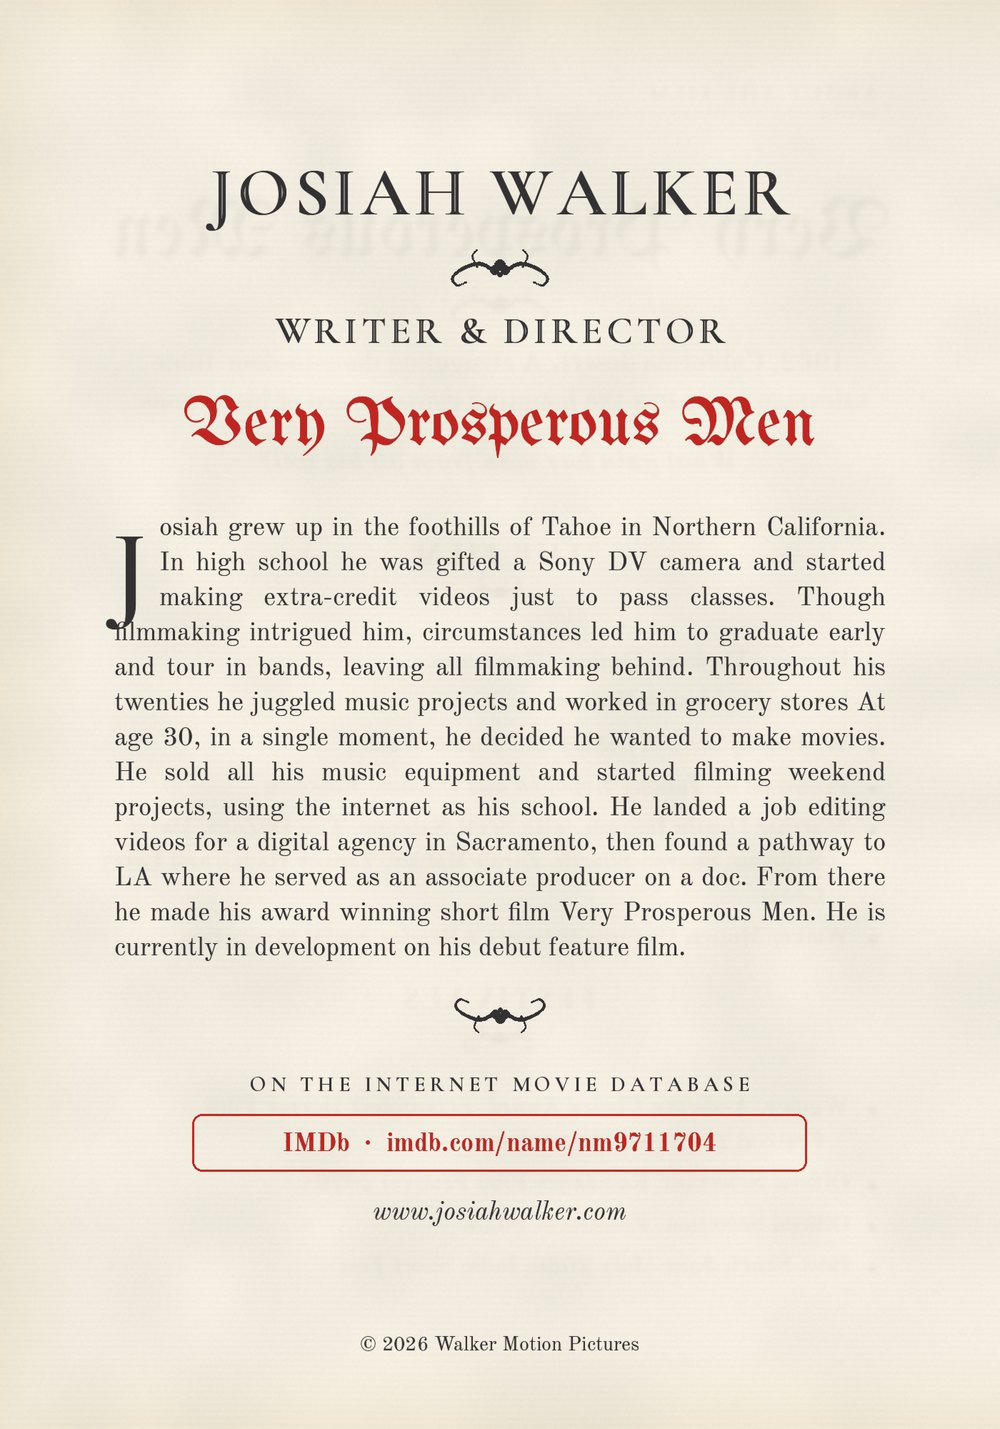
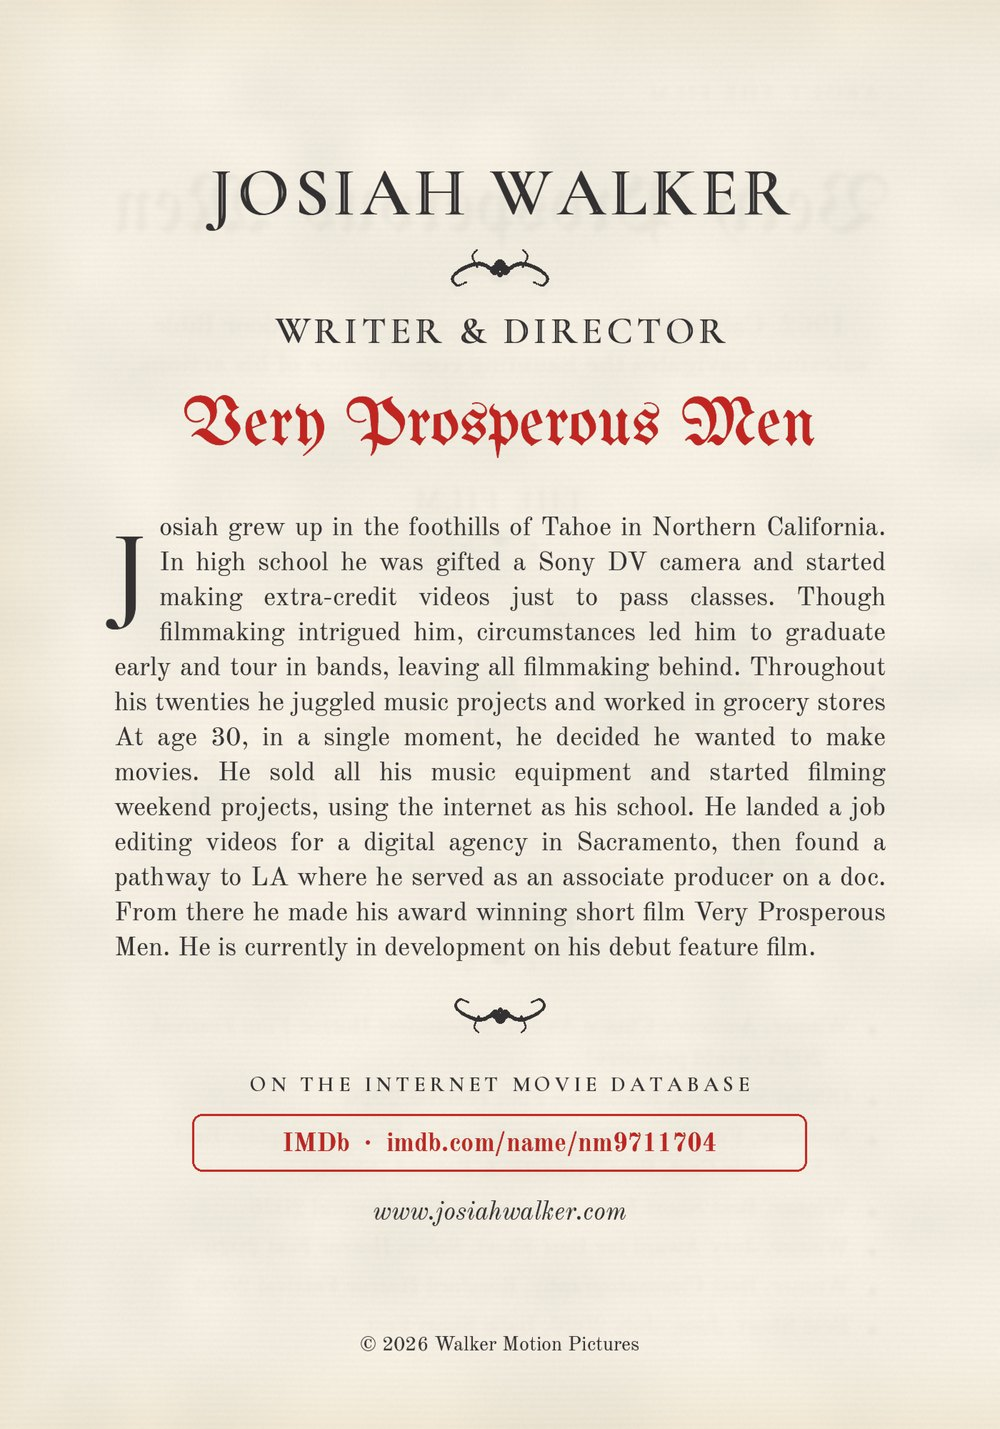
v44: bio page drop cap J clears the text
Claude-Session: https://claude.ai/code/session_01GM3UHFZvE1BbMYZkhuUwc1

Changed region(s): [[0.093, 0.4311, 0.899, 0.6774]]

diff --git a/index.html b/index.html
@@ -1308,7 +1308,7 @@ window.__fl = {   // QA: step the clip that is on screen
 };
 // thread D: the crucifix is a live glTF (crucifix.js, loaded on demand) over the case still; the c_crucifix still is only a fallback
 let cruxLoad = null, cruxOK = false;
-function loadCrux() { return cruxLoad || (cruxLoad = new Promise((res, rej) => { const sc = document.createElement('script'); sc.src = 'crucifix.js?v=42'; sc.onload = res; sc.onerror = rej; document.head.appendChild(sc); })); }
+function loadCrux() { return cruxLoad || (cruxLoad = new Promise((res, rej) => { const sc = document.createElement('script'); sc.src = 'crucifix.js?v=43'; sc.onload = res; sc.onerror = rej; document.head.appendChild(sc); })); }
 function mountCrux() {
   const m = cuMeta.c_case; if (!m) return;
   loadCrux().then(() => window.crux.mount($('#crux3d'), { cam: m.cam, aim: m.aim, lens: m.lens || 30, res: [1920, 1200], framing, onState: (st) => {
@@ -1342,7 +1342,7 @@ const jget = (u) => fetch(u).then(r => r.ok ? r.json() : null).catch(() => null)
 function loadBible() { return bibleLoad || (bibleLoad = Promise.all([loadScript('pagesnd.js'), loadScript('bible.js').then(() => loadScript('album.js')), jget('frames/bible.json'), jget('frames/bible_pages.json'), jget('frames/album.json'), jget('frames/album_pages.json')]).then(([, , bj, pj, aj, apj]) => {
   pj = pj || {}; const urls = {}; for (const k in pj) if (/_url$/.test(k) && pj[k]) urls[k.replace(/_url$/, '')] = pj[k];   // imdb_box, site_line, about_press, about_vimeo, ... (the poster has none: onLink)
   bibleMeta = { rest: bj && bj.rest, boxes: pj, urls }; albumMeta = aj; albumPages = apj; })); }
-const ASSET_V = '42';   // bumped with every change to a .js module, so browsers and GitHub's cache never serve an old copy
+const ASSET_V = '43';   // bumped with every change to a .js module, so browsers and GitHub's cache never serve an old copy
 function loadScript(src) { const one = (u) => new Promise((res, rej) => { const sc = document.createElement('script'); sc.src = u; sc.onload = res; sc.onerror = rej; document.head.appendChild(sc); }); return one(src + '?v=' + ASSET_V).catch(() => one(src)); }
 const bookHints = { lifting: 'Back to the table · Esc', opening: 'Back to the table · Esc', leafing: 'Back to the table · Esc', open: 'Turn the pages · ← → · Click beside the book to put it back · Esc', closing: 'Back to the table', returning: 'Back to the table' };
 function mountBooks() {

diff --git a/bible.js b/bible.js
@@ -47,7 +47,7 @@ const BIBLE_CFG = {
   // (page4/tune.py): live vs still mean RGB -0.3 / +2.1 / -2.2 %, luminance 0.0 % (was +3.1 / +8.2 / +15.2 %, +7.9 %). coverTint tints the cover's map only.
   lights: { key: 1.05, sky: 0xf2e4d0, ground: 0x6b4a30, hemi: 0.45, fill: 0.22, rim: 0.2, exposure: 0.9, shadow: 0.38, env: 0.55, tint: [1, 1, 1], coverTint: [1.03, 0.98, 0.92], envTint: [1.0, 1.0, 0.78] },
 };
-const PAGE_V = '42';
+const PAGE_V = '43';
 function makeBook(CFG0) {
 const CFG = Object.assign({}, CFG0);
 let LIFT_S = CFG.lift_s, OPEN_S = CFG.open_s, TURN_S = CFG.turn_s, TURN_GAP = CFG.turn_gap, RUN_DELAY = CFG.run_delay, CLOSE_S = CFG.close_s, DROP_S = CFG.drop_s, BACK_TURN_S = CFG.back_turn_s;
